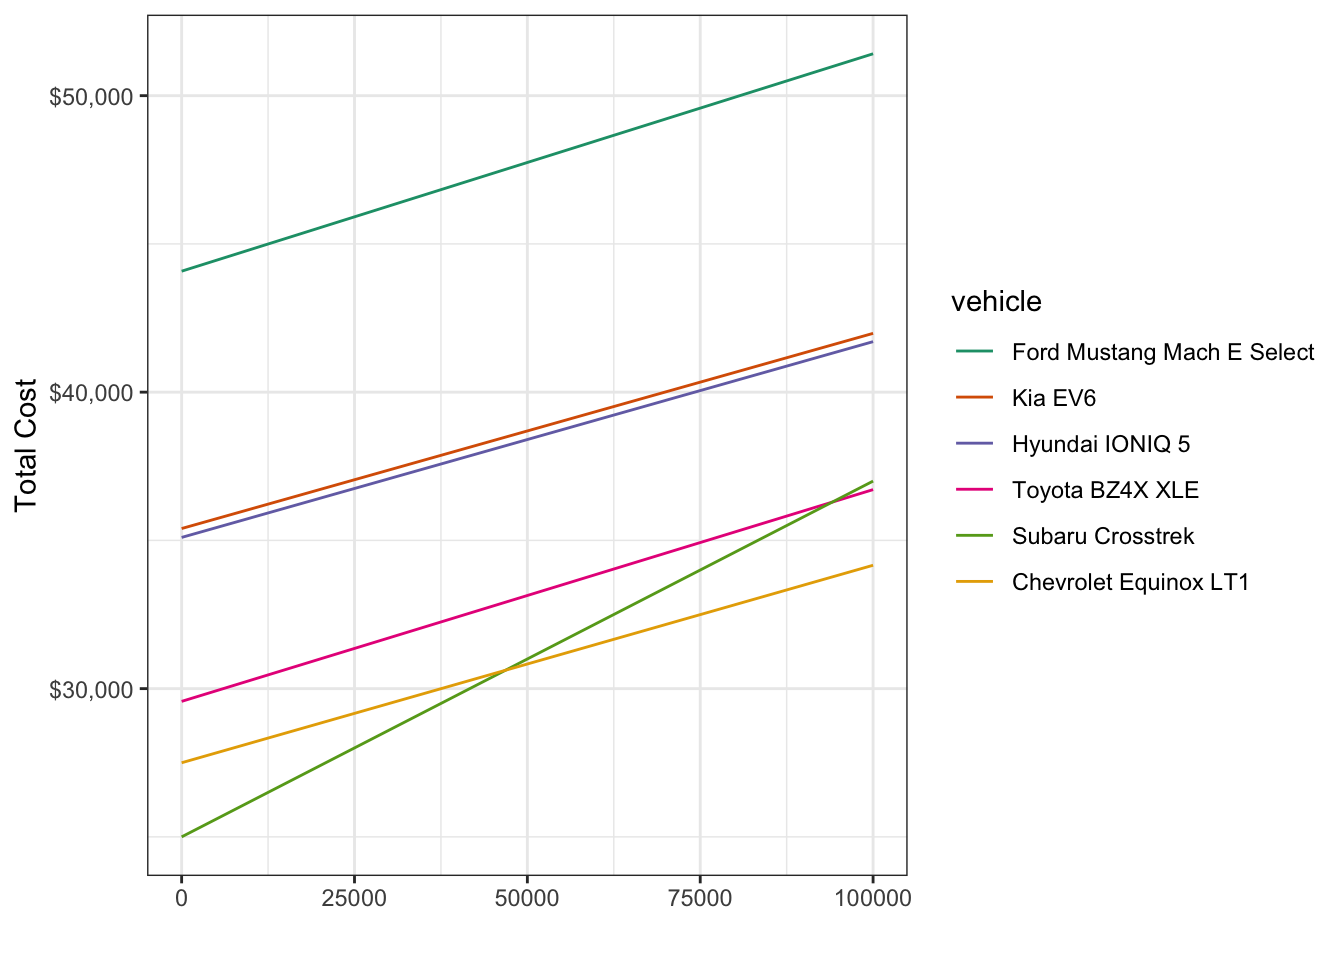
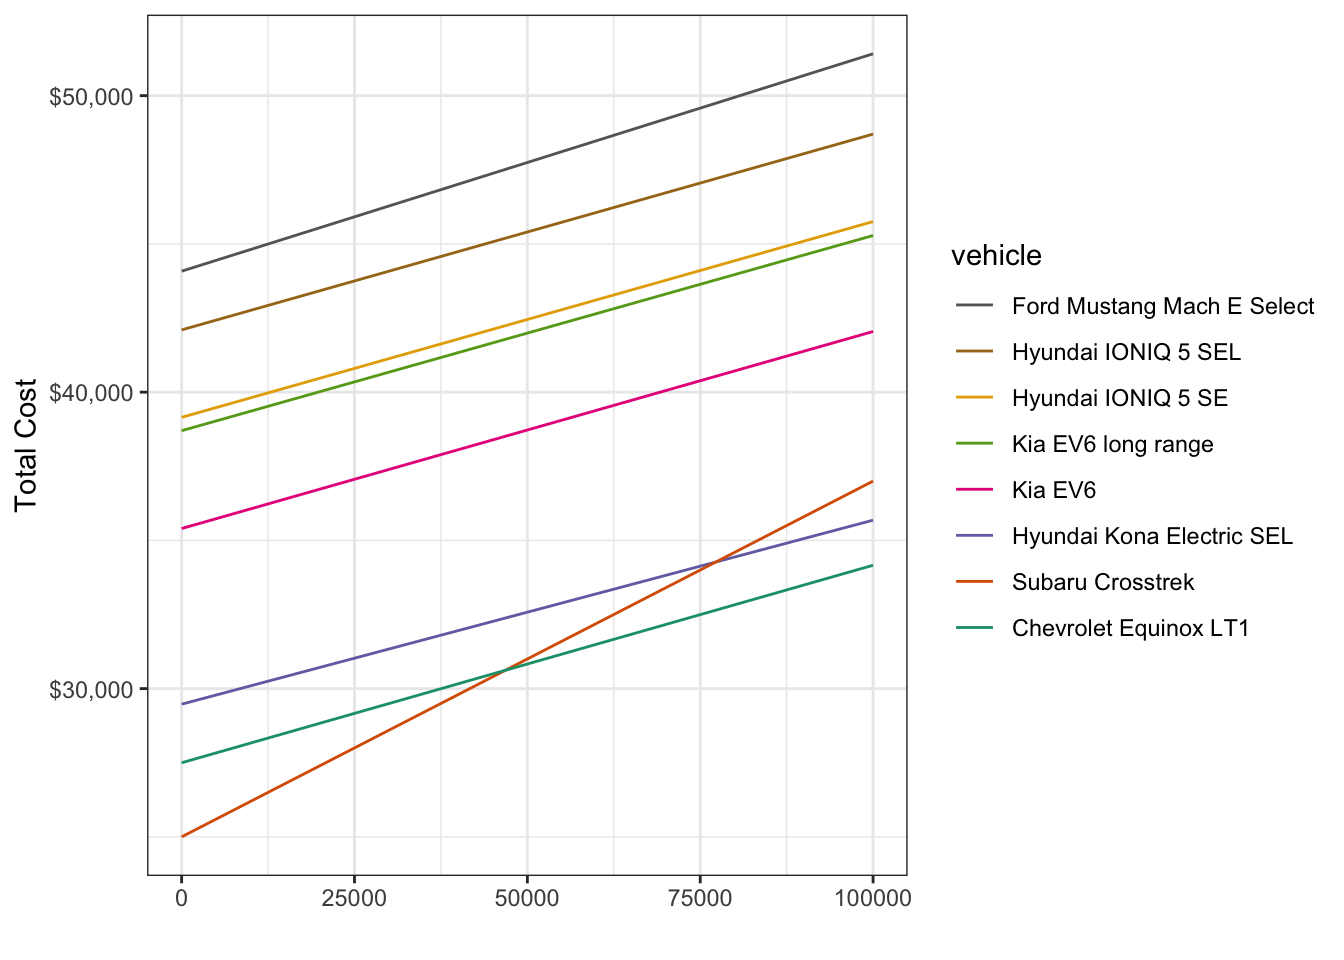
Built site for gh-pages

diff --git a/cars.html b/cars.html
@@ -6,7 +6,7 @@
 
 <meta name="viewport" content="width=device-width, initial-scale=1.0, user-scalable=yes">
 
-<meta name="dcterms.date" content="2025-09-02">
+<meta name="dcterms.date" content="2025-09-03">
 
 <title>cars</title>
 <style>
@@ -95,7 +95,7 @@ pre > code.sourceCode > span > a:first-child::before { text-decoration: underlin
     <div>
     <div class="quarto-title-meta-heading">Published</div>
     <div class="quarto-title-meta-contents">
-      <p class="date">September 2, 2025</p>
+      <p class="date">September 3, 2025</p>
     </div>
   </div>
   
@@ -168,7 +168,7 @@ pre > code.sourceCode > span > a:first-child::before { text-decoration: underlin
 <span id="cb4-24"><a href="#cb4-24" aria-hidden="true" tabindex="-1"></a>    <span class="at">purchase_cost =</span> price_minus_incentives</span>
 <span id="cb4-25"><a href="#cb4-25" aria-hidden="true" tabindex="-1"></a>) <span class="sc">%&gt;%</span> </span>
 <span id="cb4-26"><a href="#cb4-26" aria-hidden="true" tabindex="-1"></a>    <span class="fu">filter</span>(<span class="sc">!</span><span class="fu">is.na</span>(battery_kWh <span class="sc">|</span> <span class="sc">!</span><span class="fu">is.na</span>(mpg_combined)),</span>
-<span id="cb4-27"><a href="#cb4-27" aria-hidden="true" tabindex="-1"></a>           make_model <span class="sc">!=</span> <span class="st">'Saturn Vue'</span></span>
+<span id="cb4-27"><a href="#cb4-27" aria-hidden="true" tabindex="-1"></a>           <span class="sc">!</span>exclude</span>
 <span id="cb4-28"><a href="#cb4-28" aria-hidden="true" tabindex="-1"></a>           )</span>
 <span id="cb4-29"><a href="#cb4-29" aria-hidden="true" tabindex="-1"></a></span>
 <span id="cb4-30"><a href="#cb4-30" aria-hidden="true" tabindex="-1"></a>n_years <span class="ot">&lt;-</span> <span class="dv">8</span></span>
@@ -199,7 +199,7 @@ pre > code.sourceCode > span > a:first-child::before { text-decoration: underlin
 <span id="cb5-6"><a href="#cb5-6" aria-hidden="true" tabindex="-1"></a>    <span class="fu">mutate</span>(<span class="at">make_model =</span> <span class="fu">factor</span>(make_model, <span class="at">levels =</span> vehicles)) <span class="sc">%&gt;%</span> </span>
 <span id="cb5-7"><a href="#cb5-7" aria-hidden="true" tabindex="-1"></a>    <span class="fu">ggplot</span>(<span class="fu">aes</span>(date_week, total_cost, <span class="at">color =</span> make_model, <span class="at">group =</span> make_model)) <span class="sc">+</span></span>
 <span id="cb5-8"><a href="#cb5-8" aria-hidden="true" tabindex="-1"></a>    <span class="fu">geom_line</span>() <span class="sc">+</span></span>
-<span id="cb5-9"><a href="#cb5-9" aria-hidden="true" tabindex="-1"></a>    <span class="fu">scale_color_brewer</span>(<span class="at">palette =</span> <span class="st">'Dark2'</span>) <span class="sc">+</span></span>
+<span id="cb5-9"><a href="#cb5-9" aria-hidden="true" tabindex="-1"></a>    <span class="fu">scale_color_brewer</span>(<span class="at">palette =</span> <span class="st">'Dark2'</span>, <span class="at">direction =</span> <span class="sc">-</span><span class="dv">1</span>) <span class="sc">+</span></span>
 <span id="cb5-10"><a href="#cb5-10" aria-hidden="true" tabindex="-1"></a>    <span class="co">#scale_color_viridis_d(option = 'viridis') +</span></span>
 <span id="cb5-11"><a href="#cb5-11" aria-hidden="true" tabindex="-1"></a>    <span class="fu">scale_y_continuous</span>(<span class="at">labels =</span> <span class="fu">label_currency</span>()) <span class="sc">+</span></span>
 <span id="cb5-12"><a href="#cb5-12" aria-hidden="true" tabindex="-1"></a>    <span class="fu">guides</span>(<span class="at">color =</span> <span class="fu">guide_legend</span>(<span class="at">title =</span> <span class="st">'vehicle'</span>)) <span class="sc">+</span></span>
@@ -231,7 +231,7 @@ pre > code.sourceCode > span > a:first-child::before { text-decoration: underlin
 <span id="cb6-9"><a href="#cb6-9" aria-hidden="true" tabindex="-1"></a>    <span class="fu">mutate</span>(<span class="at">make_model =</span> <span class="fu">factor</span>(make_model, <span class="at">levels =</span> vehicles)) <span class="sc">%&gt;%</span> </span>
 <span id="cb6-10"><a href="#cb6-10" aria-hidden="true" tabindex="-1"></a>    <span class="fu">ggplot</span>(<span class="fu">aes</span>(miles, cost_at_mileage, <span class="at">color =</span> make_model, <span class="at">group =</span> make_model)) <span class="sc">+</span></span>
 <span id="cb6-11"><a href="#cb6-11" aria-hidden="true" tabindex="-1"></a>    <span class="fu">geom_line</span>() <span class="sc">+</span></span>
-<span id="cb6-12"><a href="#cb6-12" aria-hidden="true" tabindex="-1"></a>    <span class="fu">scale_color_brewer</span>(<span class="at">palette =</span> <span class="st">'Dark2'</span>) <span class="sc">+</span></span>
+<span id="cb6-12"><a href="#cb6-12" aria-hidden="true" tabindex="-1"></a>    <span class="fu">scale_color_brewer</span>(<span class="at">palette =</span> <span class="st">'Dark2'</span>, <span class="at">direction =</span> <span class="sc">-</span><span class="dv">1</span>) <span class="sc">+</span></span>
 <span id="cb6-13"><a href="#cb6-13" aria-hidden="true" tabindex="-1"></a>    <span class="co">#scale_color_viridis_d(option = 'viridis') +</span></span>
 <span id="cb6-14"><a href="#cb6-14" aria-hidden="true" tabindex="-1"></a>    <span class="fu">scale_y_continuous</span>(<span class="at">labels =</span> <span class="fu">label_currency</span>()) <span class="sc">+</span></span>
 <span id="cb6-15"><a href="#cb6-15" aria-hidden="true" tabindex="-1"></a>    <span class="fu">guides</span>(<span class="at">color =</span> <span class="fu">guide_legend</span>(<span class="at">title =</span> <span class="st">'vehicle'</span>)) <span class="sc">+</span></span>

diff --git a/index.html b/index.html
@@ -6,7 +6,7 @@
 
 <meta name="viewport" content="width=device-width, initial-scale=1.0, user-scalable=yes">
 
-<meta name="dcterms.date" content="2025-09-02">
+<meta name="dcterms.date" content="2025-09-03">
 
 <title>cars</title>
 <style>
@@ -95,7 +95,7 @@ pre > code.sourceCode > span > a:first-child::before { text-decoration: underlin
     <div>
     <div class="quarto-title-meta-heading">Published</div>
     <div class="quarto-title-meta-contents">
-      <p class="date">September 2, 2025</p>
+      <p class="date">September 3, 2025</p>
     </div>
   </div>
   
@@ -168,7 +168,7 @@ pre > code.sourceCode > span > a:first-child::before { text-decoration: underlin
 <span id="cb4-24"><a href="#cb4-24" aria-hidden="true" tabindex="-1"></a>    <span class="at">purchase_cost =</span> price_minus_incentives</span>
 <span id="cb4-25"><a href="#cb4-25" aria-hidden="true" tabindex="-1"></a>) <span class="sc">%&gt;%</span> </span>
 <span id="cb4-26"><a href="#cb4-26" aria-hidden="true" tabindex="-1"></a>    <span class="fu">filter</span>(<span class="sc">!</span><span class="fu">is.na</span>(battery_kWh <span class="sc">|</span> <span class="sc">!</span><span class="fu">is.na</span>(mpg_combined)),</span>
-<span id="cb4-27"><a href="#cb4-27" aria-hidden="true" tabindex="-1"></a>           make_model <span class="sc">!=</span> <span class="st">'Saturn Vue'</span></span>
+<span id="cb4-27"><a href="#cb4-27" aria-hidden="true" tabindex="-1"></a>           <span class="sc">!</span>exclude</span>
 <span id="cb4-28"><a href="#cb4-28" aria-hidden="true" tabindex="-1"></a>           )</span>
 <span id="cb4-29"><a href="#cb4-29" aria-hidden="true" tabindex="-1"></a></span>
 <span id="cb4-30"><a href="#cb4-30" aria-hidden="true" tabindex="-1"></a>n_years <span class="ot">&lt;-</span> <span class="dv">8</span></span>
@@ -199,7 +199,7 @@ pre > code.sourceCode > span > a:first-child::before { text-decoration: underlin
 <span id="cb5-6"><a href="#cb5-6" aria-hidden="true" tabindex="-1"></a>    <span class="fu">mutate</span>(<span class="at">make_model =</span> <span class="fu">factor</span>(make_model, <span class="at">levels =</span> vehicles)) <span class="sc">%&gt;%</span> </span>
 <span id="cb5-7"><a href="#cb5-7" aria-hidden="true" tabindex="-1"></a>    <span class="fu">ggplot</span>(<span class="fu">aes</span>(date_week, total_cost, <span class="at">color =</span> make_model, <span class="at">group =</span> make_model)) <span class="sc">+</span></span>
 <span id="cb5-8"><a href="#cb5-8" aria-hidden="true" tabindex="-1"></a>    <span class="fu">geom_line</span>() <span class="sc">+</span></span>
-<span id="cb5-9"><a href="#cb5-9" aria-hidden="true" tabindex="-1"></a>    <span class="fu">scale_color_brewer</span>(<span class="at">palette =</span> <span class="st">'Dark2'</span>) <span class="sc">+</span></span>
+<span id="cb5-9"><a href="#cb5-9" aria-hidden="true" tabindex="-1"></a>    <span class="fu">scale_color_brewer</span>(<span class="at">palette =</span> <span class="st">'Dark2'</span>, <span class="at">direction =</span> <span class="sc">-</span><span class="dv">1</span>) <span class="sc">+</span></span>
 <span id="cb5-10"><a href="#cb5-10" aria-hidden="true" tabindex="-1"></a>    <span class="co">#scale_color_viridis_d(option = 'viridis') +</span></span>
 <span id="cb5-11"><a href="#cb5-11" aria-hidden="true" tabindex="-1"></a>    <span class="fu">scale_y_continuous</span>(<span class="at">labels =</span> <span class="fu">label_currency</span>()) <span class="sc">+</span></span>
 <span id="cb5-12"><a href="#cb5-12" aria-hidden="true" tabindex="-1"></a>    <span class="fu">guides</span>(<span class="at">color =</span> <span class="fu">guide_legend</span>(<span class="at">title =</span> <span class="st">'vehicle'</span>)) <span class="sc">+</span></span>
@@ -231,7 +231,7 @@ pre > code.sourceCode > span > a:first-child::before { text-decoration: underlin
 <span id="cb6-9"><a href="#cb6-9" aria-hidden="true" tabindex="-1"></a>    <span class="fu">mutate</span>(<span class="at">make_model =</span> <span class="fu">factor</span>(make_model, <span class="at">levels =</span> vehicles)) <span class="sc">%&gt;%</span> </span>
 <span id="cb6-10"><a href="#cb6-10" aria-hidden="true" tabindex="-1"></a>    <span class="fu">ggplot</span>(<span class="fu">aes</span>(miles, cost_at_mileage, <span class="at">color =</span> make_model, <span class="at">group =</span> make_model)) <span class="sc">+</span></span>
 <span id="cb6-11"><a href="#cb6-11" aria-hidden="true" tabindex="-1"></a>    <span class="fu">geom_line</span>() <span class="sc">+</span></span>
-<span id="cb6-12"><a href="#cb6-12" aria-hidden="true" tabindex="-1"></a>    <span class="fu">scale_color_brewer</span>(<span class="at">palette =</span> <span class="st">'Dark2'</span>) <span class="sc">+</span></span>
+<span id="cb6-12"><a href="#cb6-12" aria-hidden="true" tabindex="-1"></a>    <span class="fu">scale_color_brewer</span>(<span class="at">palette =</span> <span class="st">'Dark2'</span>, <span class="at">direction =</span> <span class="sc">-</span><span class="dv">1</span>) <span class="sc">+</span></span>
 <span id="cb6-13"><a href="#cb6-13" aria-hidden="true" tabindex="-1"></a>    <span class="co">#scale_color_viridis_d(option = 'viridis') +</span></span>
 <span id="cb6-14"><a href="#cb6-14" aria-hidden="true" tabindex="-1"></a>    <span class="fu">scale_y_continuous</span>(<span class="at">labels =</span> <span class="fu">label_currency</span>()) <span class="sc">+</span></span>
 <span id="cb6-15"><a href="#cb6-15" aria-hidden="true" tabindex="-1"></a>    <span class="fu">guides</span>(<span class="at">color =</span> <span class="fu">guide_legend</span>(<span class="at">title =</span> <span class="st">'vehicle'</span>)) <span class="sc">+</span></span>
